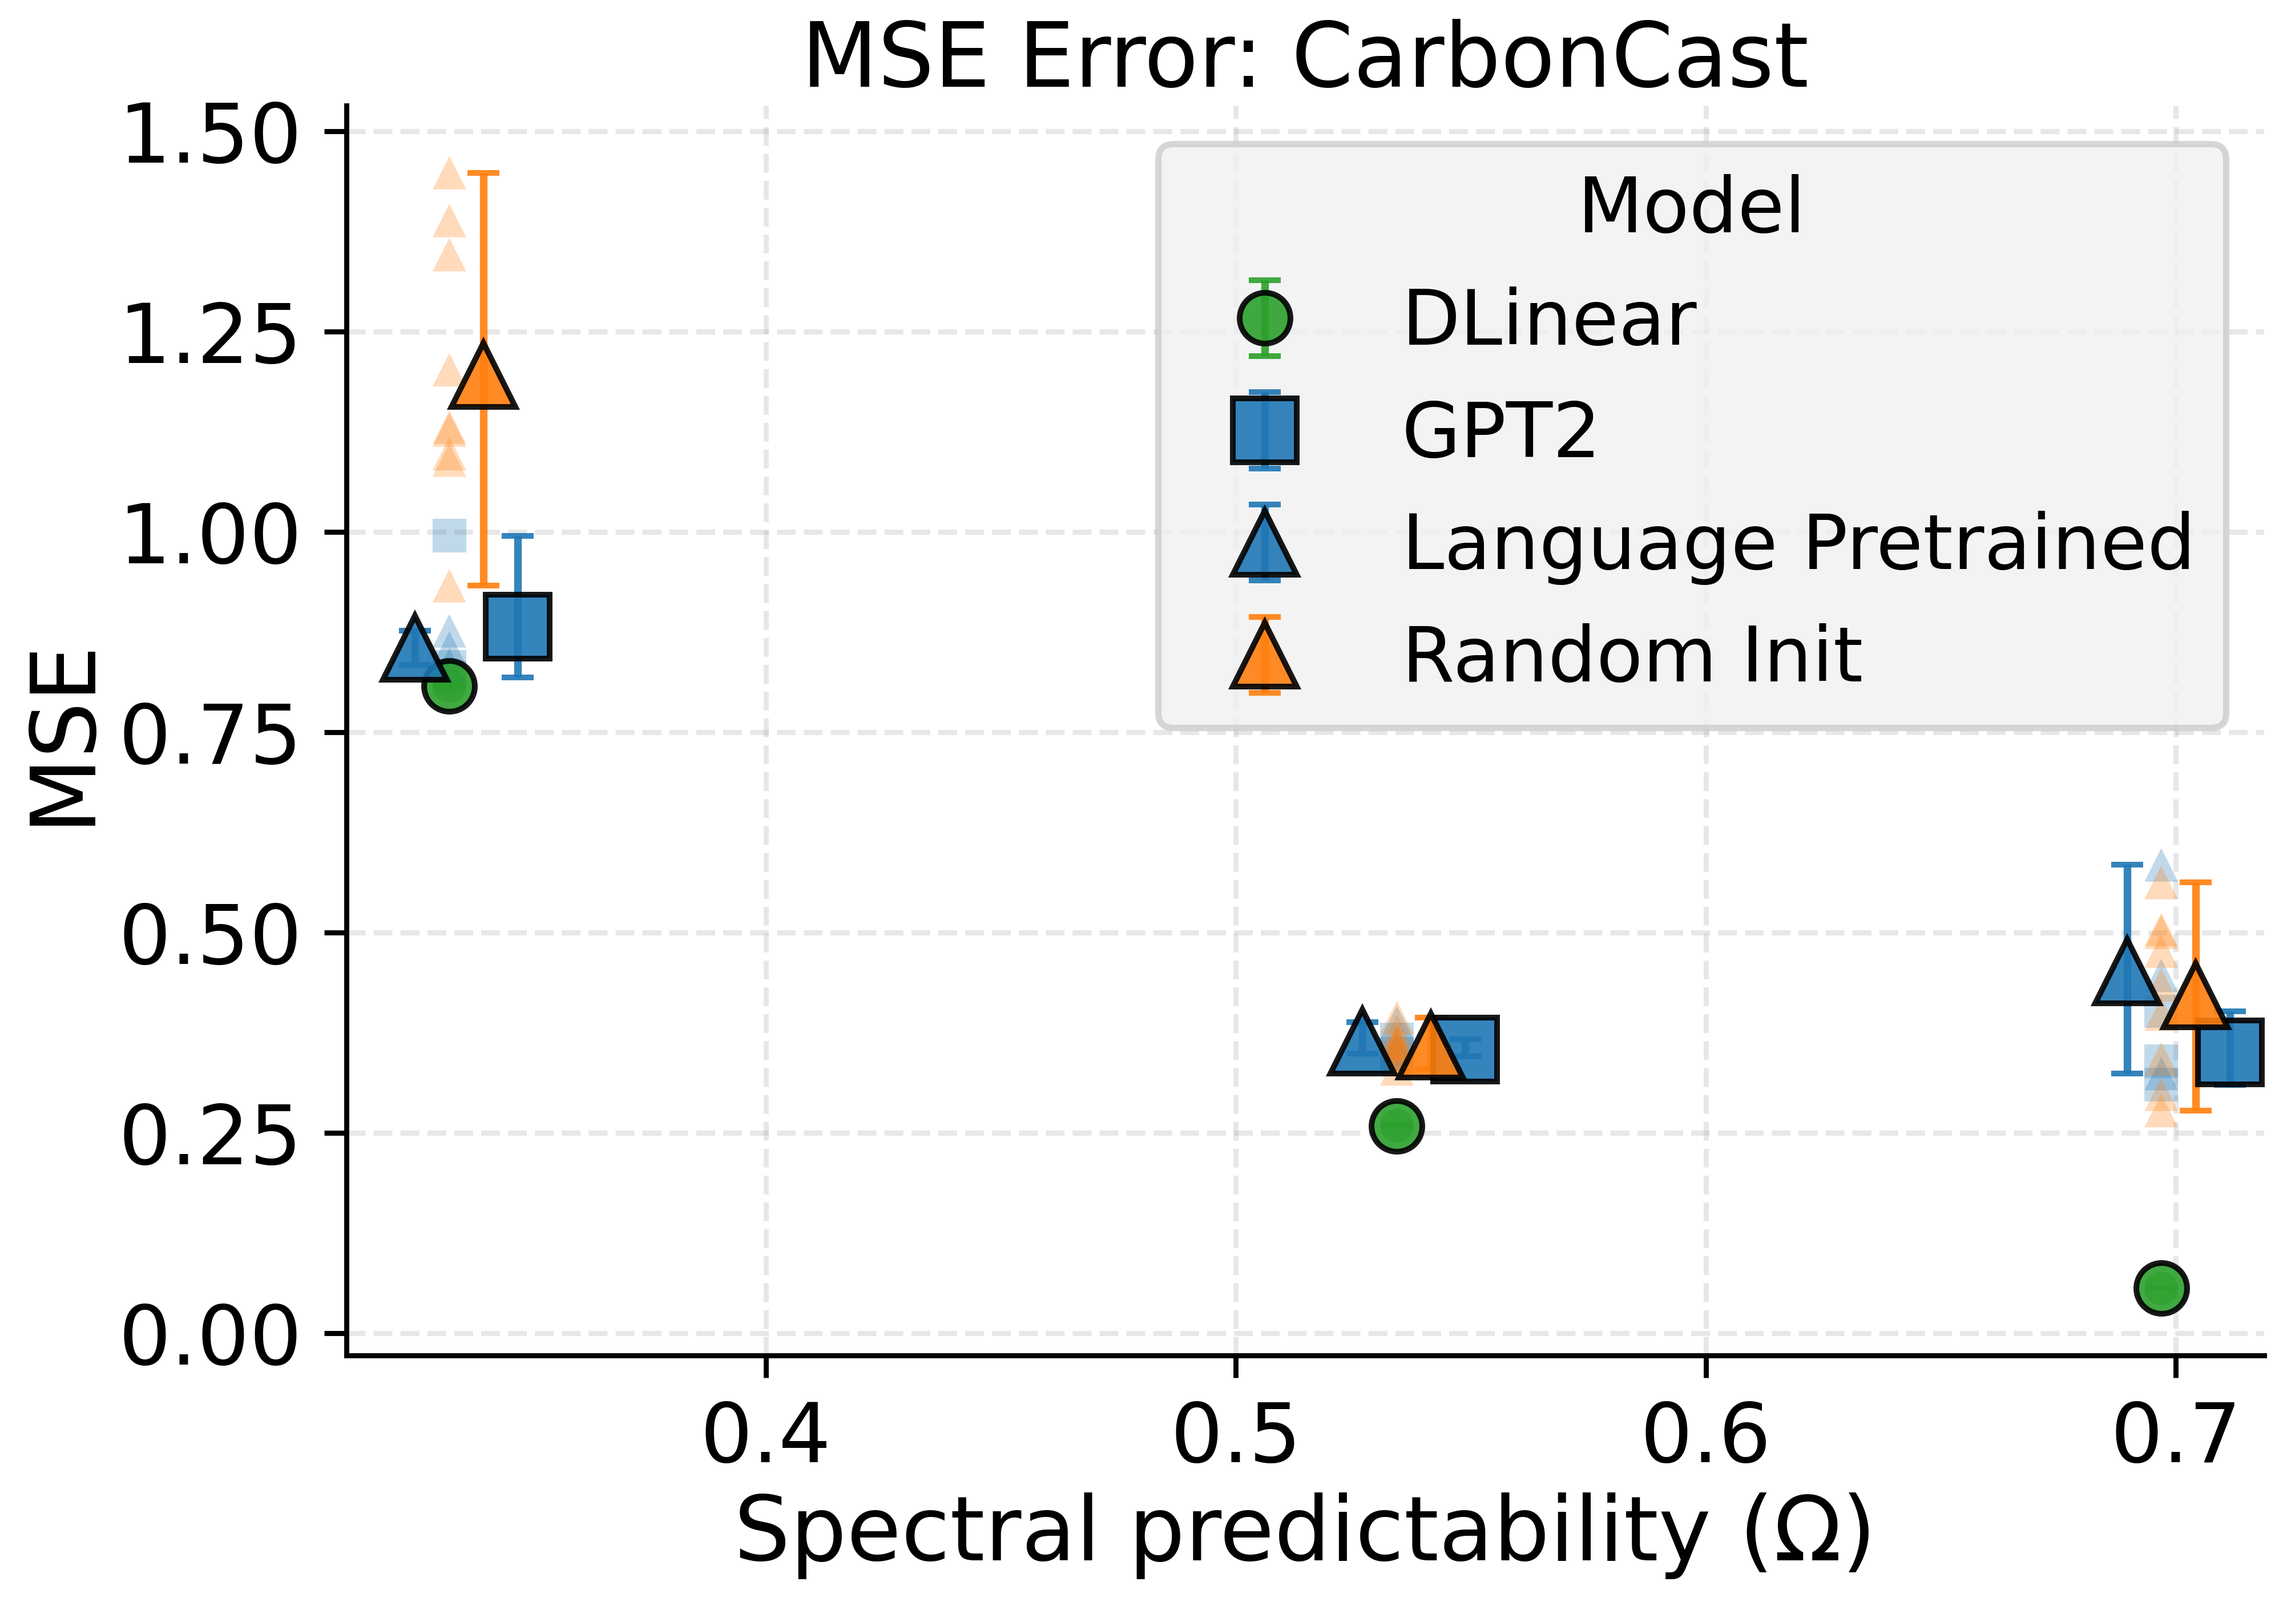
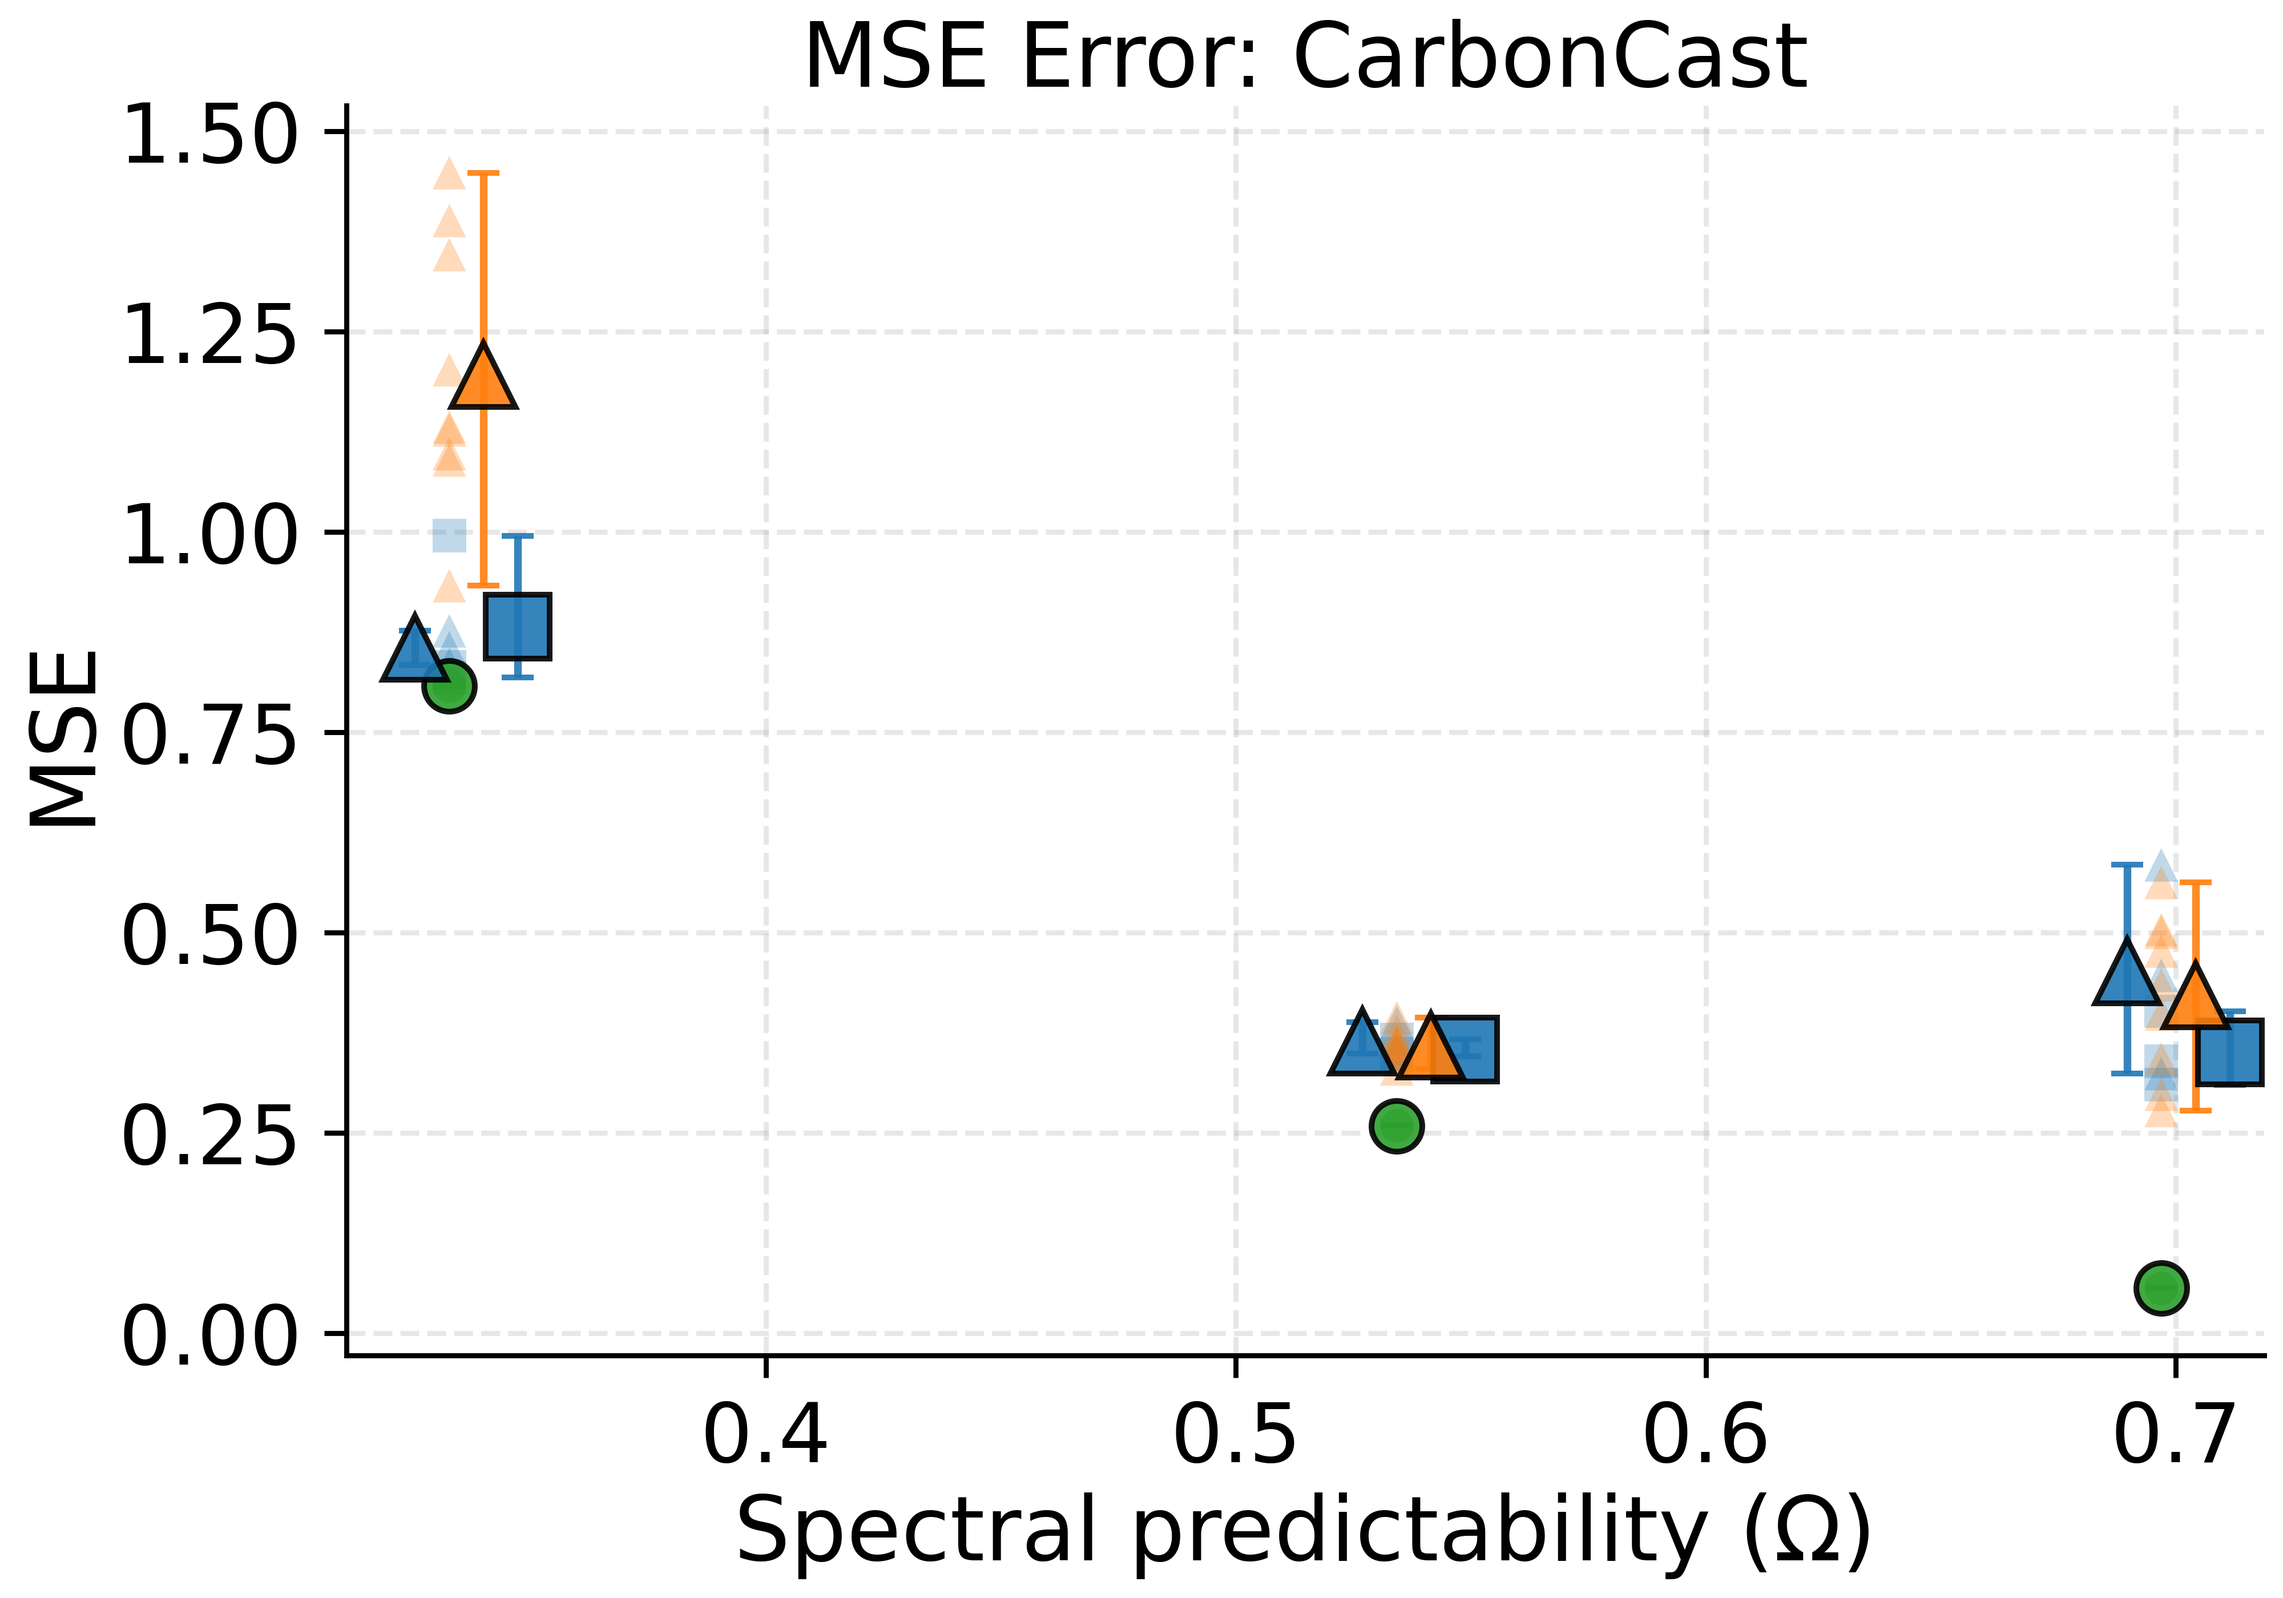
synthetic

Changed region(s): [[0.5, 0.1554, 0.9688, 0.4661], [0.5312, 0.0621, 0.9688, 0.1554], [0.5938, 0.1864, 0.75, 0.2175]]

diff --git a/TimeLLM/results_automate/graph_spectral.py b/TimeLLM/results_automate/graph_spectral.py
@@ -63,10 +63,10 @@ DOMAIN_NAME_FIX = {
     "carbon_eval": "CarbonCast",
     "pems_eval": "PEMS",
     "fitbit_eval": "Fitbit",
-    "uniSynth_eval": "UniSynth",
+    "uniSynth_eval": "Synthetic",
 }
 
-DOMAINS_CANON = ("CarbonCast", "PEMS", "Fitbit", "UniSynth")
+DOMAINS_CANON = ("CarbonCast", "PEMS", "Fitbit", "Synthetic")
 
 # ------------------- Plot styling -------------------
 MODEL_COLOR = {
@@ -173,7 +173,7 @@ def make_base_key(path: str) -> str:
 def infer_domain_from_text(text: str) -> Optional[str]:
     t = text.lower()
     if "unisynth" in t:
-        return "UniSynth"
+        return "Synthetic"
     if "carbon" in t or "spectralunitest" in t:
         return "CarbonCast"
     if "fitbit" in t:
